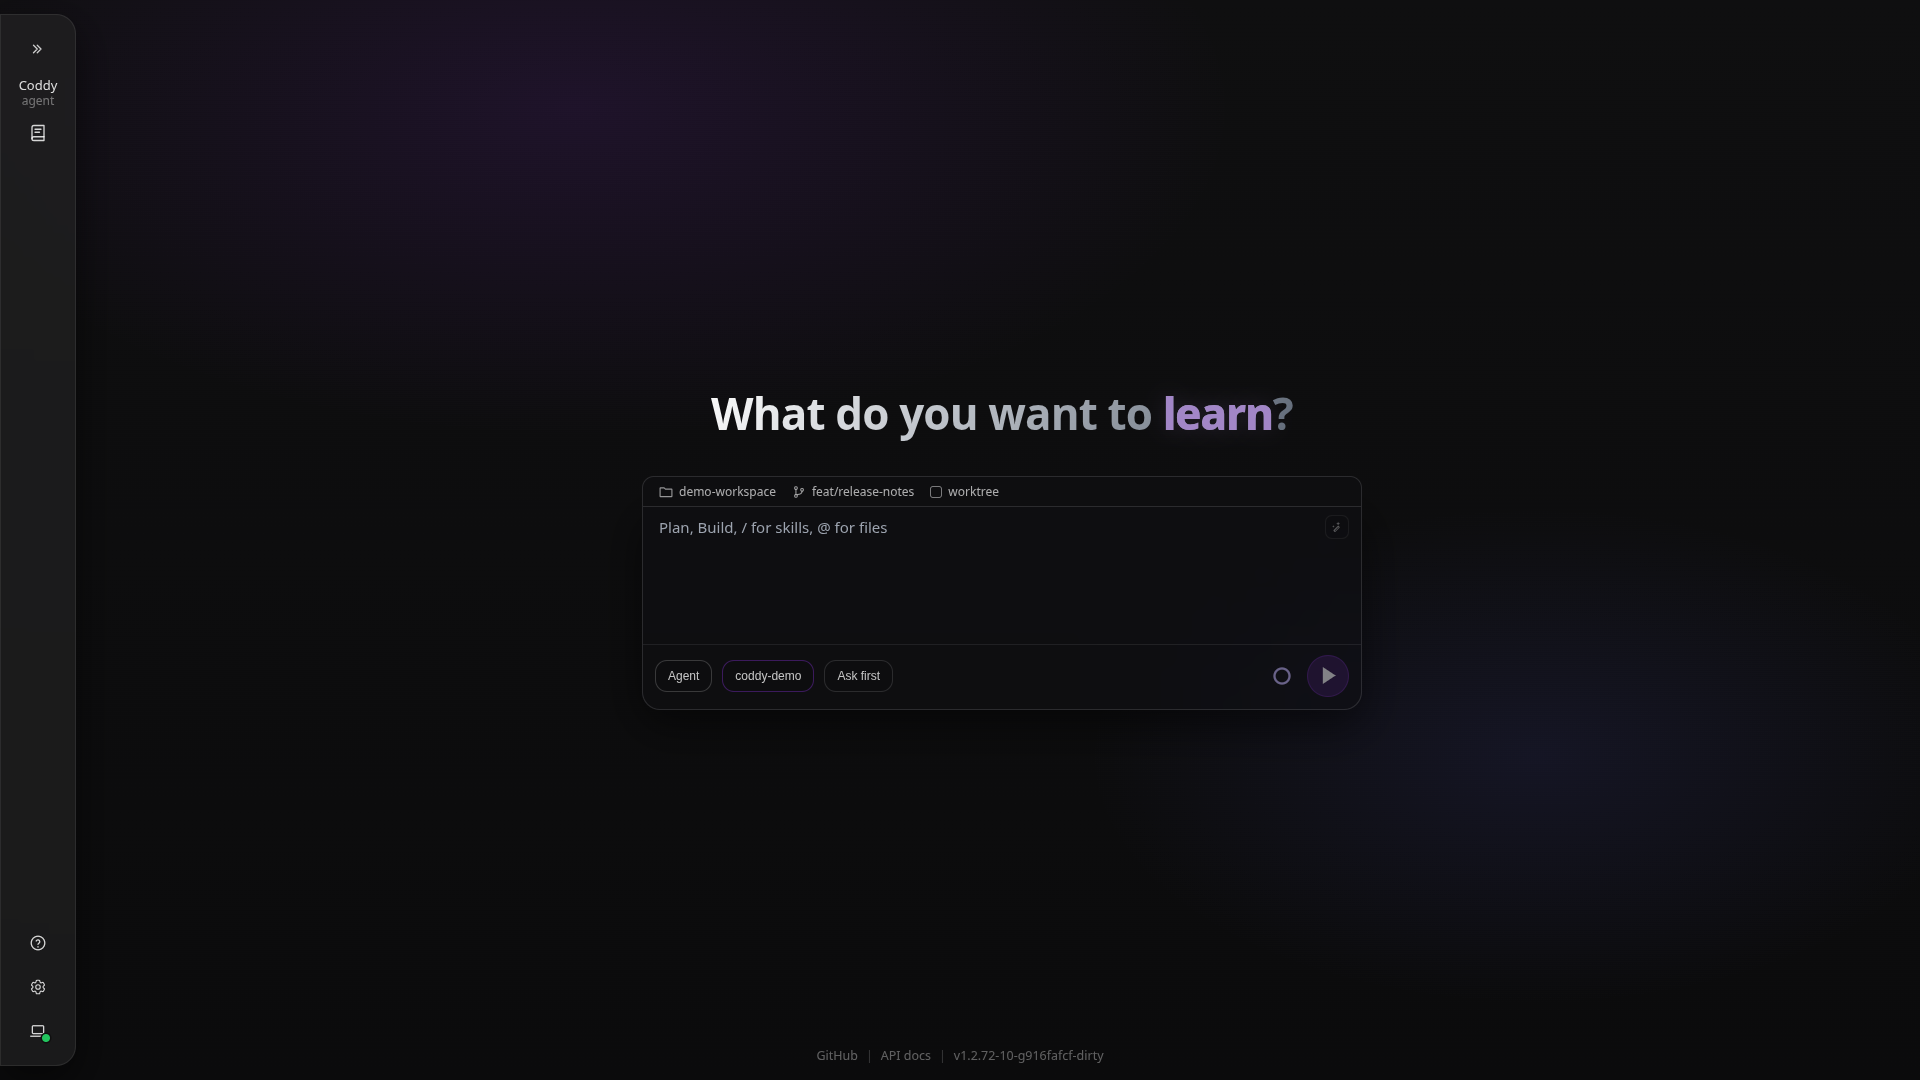
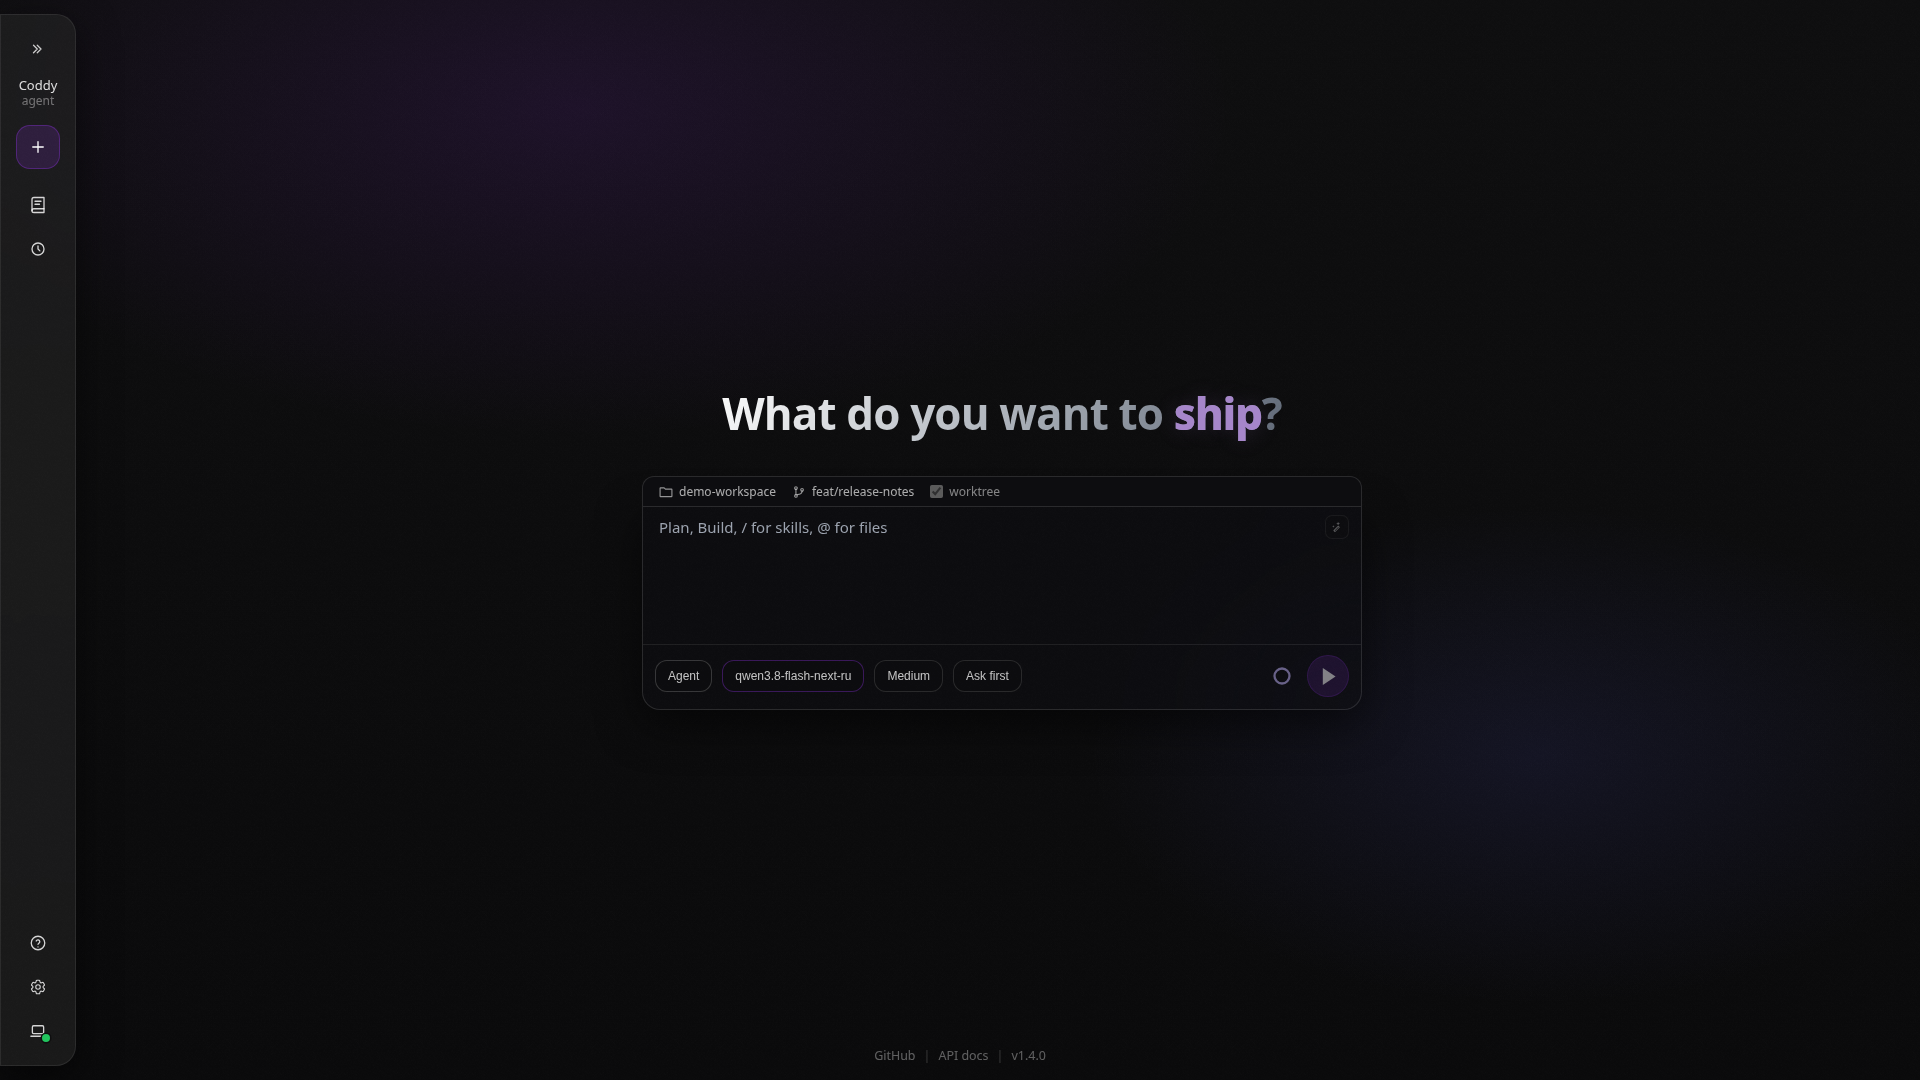
docs: refresh the README screenshots for 1.4.0
Start screen on desktop and mobile and the console turn now show the
current UI: the neuraldeep/qwen3.8-flash-next-ru model chip, the
worktree-aware workspace bar and the 1.4.0 build.

Changed region(s): [[0.375, 0.3667, 0.6875, 0.4278], [0.375, 0.6111, 0.5312, 0.6417], [0.0, 0.0917, 0.0312, 0.1528]]

diff --git a/docs/assets/INDEX.md b/docs/assets/INDEX.md
@@ -30,7 +30,7 @@ Screenshots taken as evidence for a pull request do not belong here. Attach them
 Generated by `make docs`. "Used by" lists the files that reference the asset.
 
 <!-- docsgen:assets:start -->
-335 files, 81.9 MB in total.
+335 files, 82.6 MB in total.
 
 ### docs/assets
 
@@ -71,7 +71,7 @@ Generated by `make docs`. "Used by" lists the files that reference the asset.
 | `reasoning-levels-dark-1280.png` | 177 KB | docs/ru/surfaces/web-ui.md, docs/surfaces/web-ui.md |
 | `ref-navbar-narrow-tooltips-accent.png` | 16 KB | DESIGN.md |
 | `scheduler-tool-cards-dark-1280.png` | 197 KB | docs/ru/surfaces/web-ui.md, docs/surfaces/web-ui.md |
-| `screenshot-console-chat.png` | 119 KB | README.md, docs/getting-started/quickstart.md, docs/ru/getting-started/quickstart.md |
+| `screenshot-console-chat.png` | 200 KB | README.md, docs/getting-started/quickstart.md, docs/ru/getting-started/quickstart.md |
 | `screenshot-console-login-hint.png` | 40 KB | docs/ru/surfaces/console.md, docs/surfaces/console.md |
 | `screenshot-console-models.png` | 71 KB | docs/ru/surfaces/console.md, docs/surfaces/console.md |
 | `screenshot-console-start.png` | 41 KB | docs/ru/surfaces/console.md, docs/surfaces/console.md |
@@ -84,12 +84,12 @@ Generated by `make docs`. "Used by" lists the files that reference the asset.
 | `screenshot-fullhd-settings-mcp.png` | 196 KB | docs/operate/security.md, docs/ru/operate/security.md, docs/ru/surfaces/web-ui.md, docs/surfaces/web-ui.md |
 | `screenshot-fullhd-settings-skills.png` | 685 KB | docs/features/skills.md, docs/ru/features/skills.md |
 | `screenshot-fullhd-settings.png` | 186 KB | docs/ru/surfaces/web-ui.md, docs/surfaces/web-ui.md |
-| `screenshot-fullhd-start.png` | 290 KB | README.md |
+| `screenshot-fullhd-start.png` | 828 KB | README.md |
 | `screenshot-fullhd-tasks.png` | 312 KB | docs/ru/surfaces/web-ui.md, docs/surfaces/web-ui.md |
 | `screenshot-hooks-notice-dark.png` | 199 KB | docs/features/hooks.md, docs/operate/security.md, docs/ru/features/hooks.md, docs/ru/operate/security.md, docs/ru/surfaces/web-ui.md, docs/surfaces/web-ui.md |
 | `screenshot-hooks-notice-light.png` | 162 KB | docs/features/hooks.md, docs/ru/features/hooks.md |
 | `screenshot-mobile-chat.png` | 101 KB | docs/ru/surfaces/web-ui.md, docs/surfaces/web-ui.md |
-| `screenshot-mobile-start.png` | 91 KB | README.md |
+| `screenshot-mobile-start.png` | 220 KB | README.md |
 | `screenshot-tool-previews-dark.png` | 195 KB | docs/ru/surfaces/web-ui.md, docs/surfaces/web-ui.md |
 | `screenshot-tool-previews-overflow-dark.png` | 107 KB | docs/ru/surfaces/web-ui.md, docs/surfaces/web-ui.md |
 | `scroll-to-bottom-visible-dark-1280.png` | 203 KB | docs/ru/surfaces/web-ui.md, docs/surfaces/web-ui.md |
